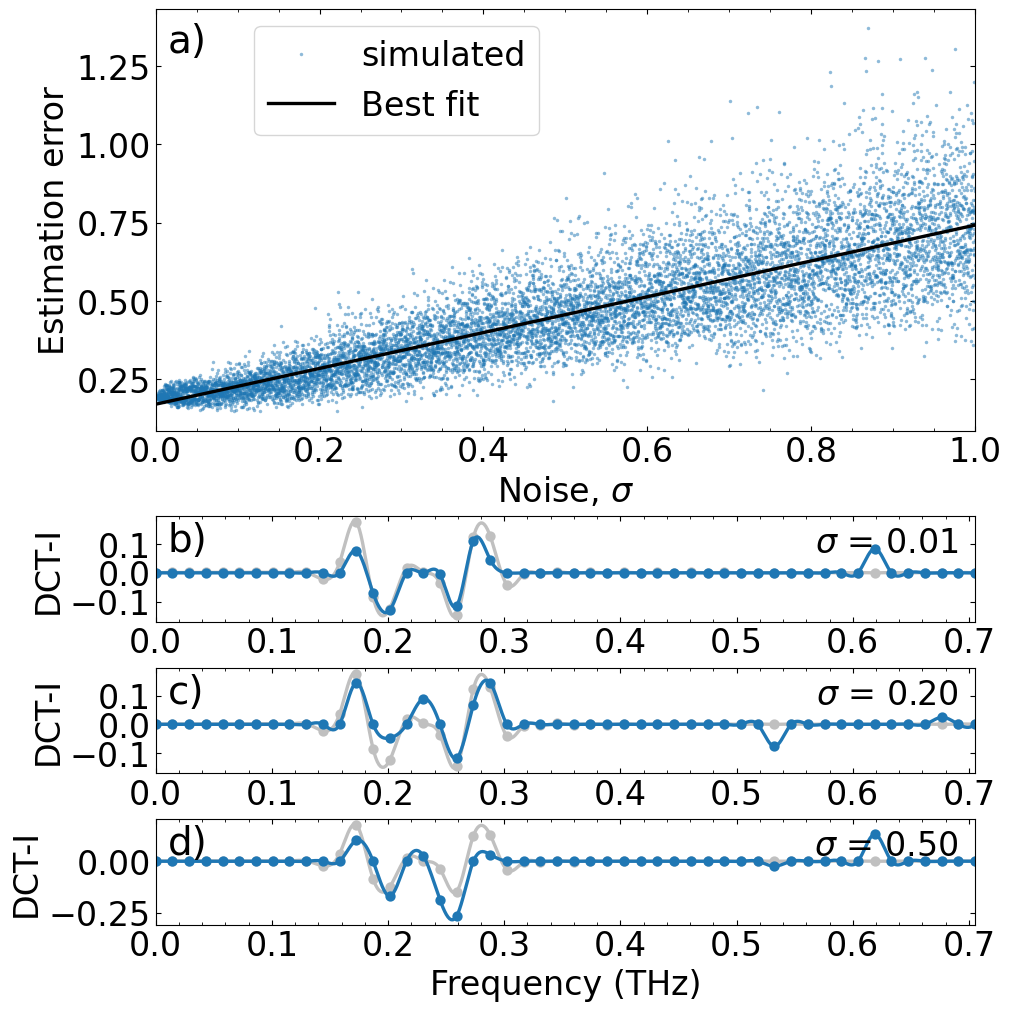
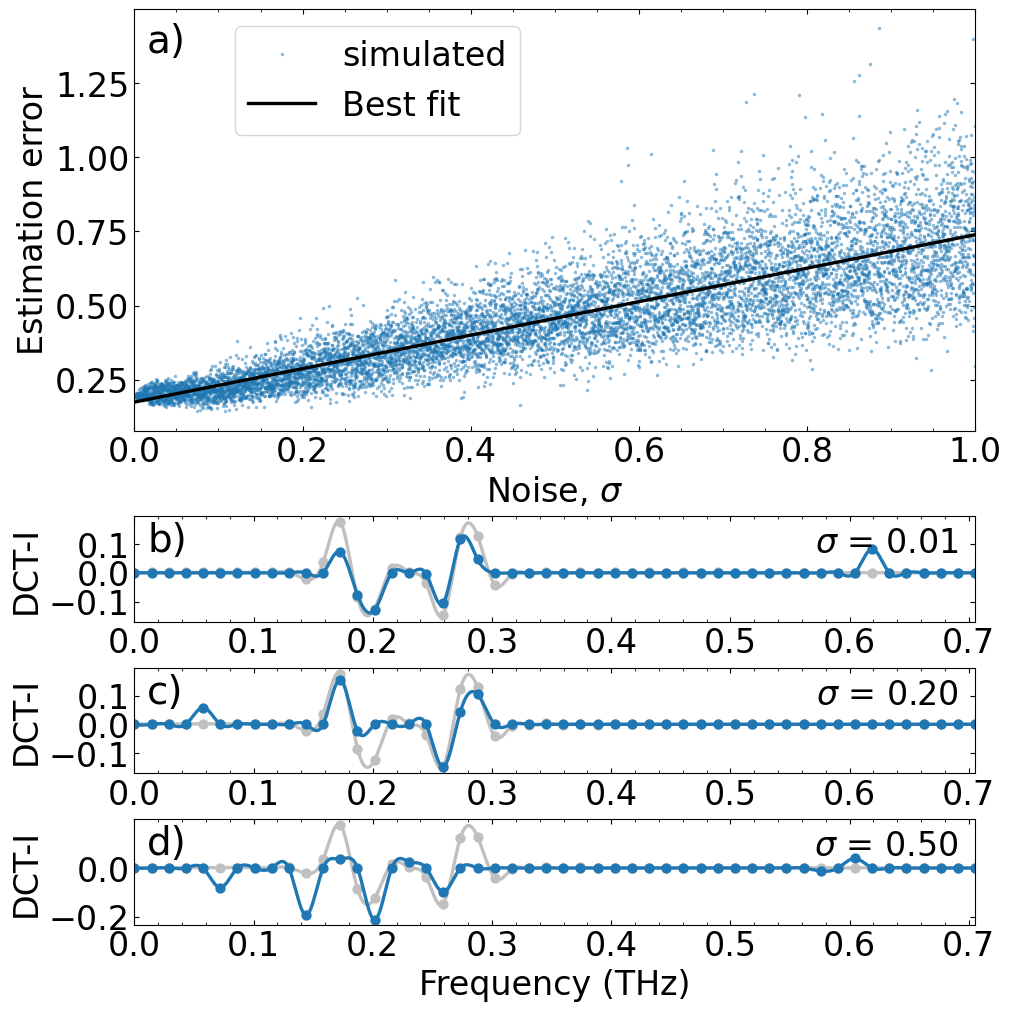
restored freq shift graph

diff --git a/README.md b/README.md
@@ -1,7 +1,5 @@
 TODO write readme file
 
-TODO add figure number to corresponding script name for easy reference
-
 Fig 1. incoherence_and_rip_demo.ipynb
 Fig 2. CS_simulated_annealing.ipynb
 Fig 3. mock_interferograms_1d.ipynb